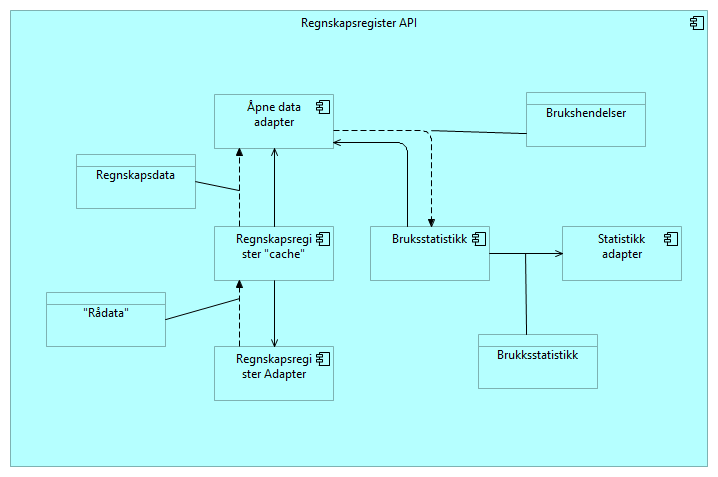
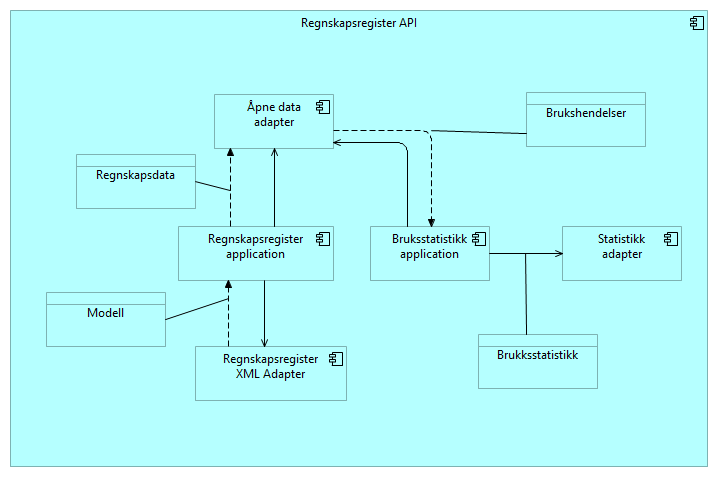
Rename various components

diff --git a/docs/c1dddd90-6b2b-44a8-8895-624dc27e7804/views/f4be0362-e500-4cac-8815-2d00582919d3.html b/docs/c1dddd90-6b2b-44a8-8895-624dc27e7804/views/f4be0362-e500-4cac-8815-2d00582919d3.html
@@ -27,8 +27,8 @@
 		<div class="panel-body root-panel-body">
 			<img class="diagram" src="../images/f4be0362-e500-4cac-8815-2d00582919d3.png" alt="02 Container Diagram" usemap="#f4be0362-e500-4cac-8815-2d00582919d3map">
 			<map name="f4be0362-e500-4cac-8815-2d00582919d3map">
-								<area shape="rect" coords="214,346,334,401" href="../elements/735bf66d-3303-4803-8f0a-3ce517050939.html"  target="element">
-								<area shape="rect" coords="214,226,334,281" href="../elements/69f88598-3791-4729-9d5a-f5d862760722.html"  target="element">
+								<area shape="rect" coords="195,346,347,401" href="../elements/735bf66d-3303-4803-8f0a-3ce517050939.html"  target="element">
+								<area shape="rect" coords="178,226,334,281" href="../elements/69f88598-3791-4729-9d5a-f5d862760722.html"  target="element">
 								<area shape="rect" coords="214,94,334,149" href="../elements/eb91dcab-62e6-490f-9fc4-d87db5ff0b37.html"  target="element">
 								<area shape="rect" coords="370,226,490,281" href="../elements/8da465a7-3b56-4f7c-9659-2fc8c5a6132d.html"  target="element">
 								<area shape="rect" coords="76,154,196,209" href="../elements/40290002-a49f-43cd-888e-2c83abb62d1e.html"  target="element">
@@ -52,7 +52,7 @@
 				<!-- Tab panes -->
 				<div class="tab-content">
 					<div role="tabpanel" class="tab-pane active" id="documentation">
-						<textarea id="docsrc" style="display:none"></textarea>
+						<textarea id="docsrc" style="display:none">Fors&#248;ker meg p&#229; ein hexagonal architecture pattern: https://declara.com/content/va7eLmgJ</textarea>
 						<div id="doctgt" style="white-space:pre-wrap"></div>
 					</div>
 					<div role="tabpanel" class="tab-pane" id="properties">
@@ -77,14 +77,14 @@
 								</thead>
 								<tbody>
 											<tr><td> <a href="../elements/9366fb38-a4b4-491e-8c1a-29da47e25f5c.html" target="element"> Regnskapsregister API </a> </td><td class="i18n-elementtype-ApplicationComponent"></td></tr>
-													<tr><td> <a href="../elements/735bf66d-3303-4803-8f0a-3ce517050939.html" target="element"> Regnskapsregister Adapter </a> </td><td class="i18n-elementtype-ApplicationComponent"></td></tr>
-													<tr><td> <a href="../elements/69f88598-3791-4729-9d5a-f5d862760722.html" target="element"> Regnskapsregister "cache" </a> </td><td class="i18n-elementtype-ApplicationComponent"></td></tr>
+													<tr><td> <a href="../elements/735bf66d-3303-4803-8f0a-3ce517050939.html" target="element"> Regnskapsregister XML Adapter </a> </td><td class="i18n-elementtype-ApplicationComponent"></td></tr>
+													<tr><td> <a href="../elements/69f88598-3791-4729-9d5a-f5d862760722.html" target="element"> Regnskapsregister application </a> </td><td class="i18n-elementtype-ApplicationComponent"></td></tr>
 													<tr><td> <a href="../elements/eb91dcab-62e6-490f-9fc4-d87db5ff0b37.html" target="element"> &#197;pne data adapter </a> </td><td class="i18n-elementtype-ApplicationComponent"></td></tr>
-													<tr><td> <a href="../elements/8da465a7-3b56-4f7c-9659-2fc8c5a6132d.html" target="element"> Bruksstatistikk </a> </td><td class="i18n-elementtype-ApplicationComponent"></td></tr>
+													<tr><td> <a href="../elements/8da465a7-3b56-4f7c-9659-2fc8c5a6132d.html" target="element"> Bruksstatistikk application </a> </td><td class="i18n-elementtype-ApplicationComponent"></td></tr>
 													<tr><td> <a href="../elements/40290002-a49f-43cd-888e-2c83abb62d1e.html" target="element"> Regnskapsdata </a> </td><td class="i18n-elementtype-DataObject"></td></tr>
 													<tr><td> <a href="../elements/131fc57e-9a0c-462e-8ee7-582a7a01c3a9.html" target="element"> Brukksstatistikk </a> </td><td class="i18n-elementtype-DataObject"></td></tr>
 													<tr><td> <a href="../elements/0ab6cbd1-9b4f-46ed-a24a-48b84d185a00.html" target="element"> Statistikk adapter </a> </td><td class="i18n-elementtype-ApplicationComponent"></td></tr>
-													<tr><td> <a href="../elements/dcd6e356-3783-41b9-ab62-d36066bd48fd.html" target="element"> "R&#229;data" </a> </td><td class="i18n-elementtype-DataObject"></td></tr>
+													<tr><td> <a href="../elements/dcd6e356-3783-41b9-ab62-d36066bd48fd.html" target="element"> Modell </a> </td><td class="i18n-elementtype-DataObject"></td></tr>
 													<tr><td> <a href="../elements/4244df1b-13f0-4317-b198-5959c8f59146.html" target="element"> Brukshendelser </a> </td><td class="i18n-elementtype-DataObject"></td></tr>
 											
 
@@ -106,13 +106,13 @@
 																		<td> <a href="../elements/d2ce3b39-f89a-4dce-9323-0a47b61d56ab.html" target="element">  </a> </td>
 																		<td> <a href="../elements/d2ce3b39-f89a-4dce-9323-0a47b61d56ab.html" target="element" class="i18n-elementtype-CompositionRelationship"></a> </td>
 																		<td> <a href="../elements/9366fb38-a4b4-491e-8c1a-29da47e25f5c.html" target="element"> Regnskapsregister API </a> </td>
-																		<td> <a href="../elements/735bf66d-3303-4803-8f0a-3ce517050939.html" target="element"> Regnskapsregister Adapter </a> </td>
+																		<td> <a href="../elements/735bf66d-3303-4803-8f0a-3ce517050939.html" target="element"> Regnskapsregister XML Adapter </a> </td>
 																	</tr>
 																	<tr>
 																		<td> <a href="../elements/d500aac5-bd37-4080-b240-61c075edc208.html" target="element">  </a> </td>
 																		<td> <a href="../elements/d500aac5-bd37-4080-b240-61c075edc208.html" target="element" class="i18n-elementtype-CompositionRelationship"></a> </td>
 																		<td> <a href="../elements/9366fb38-a4b4-491e-8c1a-29da47e25f5c.html" target="element"> Regnskapsregister API </a> </td>
-																		<td> <a href="../elements/69f88598-3791-4729-9d5a-f5d862760722.html" target="element"> Regnskapsregister "cache" </a> </td>
+																		<td> <a href="../elements/69f88598-3791-4729-9d5a-f5d862760722.html" target="element"> Regnskapsregister application </a> </td>
 																	</tr>
 																	<tr>
 																		<td> <a href="../elements/94ca008b-f90a-44c7-bff5-99f58e345e34.html" target="element">  </a> </td>
@@ -124,7 +124,7 @@
 																		<td> <a href="../elements/246e6f1a-7687-4d4c-b259-ae26f9ed11ba.html" target="element">  </a> </td>
 																		<td> <a href="../elements/246e6f1a-7687-4d4c-b259-ae26f9ed11ba.html" target="element" class="i18n-elementtype-CompositionRelationship"></a> </td>
 																		<td> <a href="../elements/9366fb38-a4b4-491e-8c1a-29da47e25f5c.html" target="element"> Regnskapsregister API </a> </td>
-																		<td> <a href="../elements/8da465a7-3b56-4f7c-9659-2fc8c5a6132d.html" target="element"> Bruksstatistikk </a> </td>
+																		<td> <a href="../elements/8da465a7-3b56-4f7c-9659-2fc8c5a6132d.html" target="element"> Bruksstatistikk application </a> </td>
 																	</tr>
 																	<tr>
 																		<td> <a href="../elements/122de9b9-7309-492b-9153-51acc6de85bc.html" target="element">  </a> </td>
@@ -148,7 +148,7 @@
 																		<td> <a href="../elements/f0aa9001-5f4f-4a6d-975e-a270e4cdd51a.html" target="element">  </a> </td>
 																		<td> <a href="../elements/f0aa9001-5f4f-4a6d-975e-a270e4cdd51a.html" target="element" class="i18n-elementtype-AccessRelationship"></a> </td>
 																		<td> <a href="../elements/9366fb38-a4b4-491e-8c1a-29da47e25f5c.html" target="element"> Regnskapsregister API </a> </td>
-																		<td> <a href="../elements/dcd6e356-3783-41b9-ab62-d36066bd48fd.html" target="element"> "R&#229;data" </a> </td>
+																		<td> <a href="../elements/dcd6e356-3783-41b9-ab62-d36066bd48fd.html" target="element"> Modell </a> </td>
 																	</tr>
 																	<tr>
 																		<td> <a href="../elements/361f514b-4f69-4127-ba81-e2fa45cbde3e.html" target="element">  </a> </td>
@@ -160,46 +160,46 @@
 																			<tr>
 																				<td> <a href="../elements/594376fa-8c8f-4c8a-b0b4-4aad53b336a8.html" target="element">  </a> </td>
 																				<td> <a href="../elements/594376fa-8c8f-4c8a-b0b4-4aad53b336a8.html" target="element" class="i18n-elementtype-FlowRelationship"></a> </td>
-																				<td> <a href="../elements/735bf66d-3303-4803-8f0a-3ce517050939.html" target="element"> Regnskapsregister Adapter </a> </td>
-																				<td> <a href="../elements/69f88598-3791-4729-9d5a-f5d862760722.html" target="element"> Regnskapsregister "cache" </a> </td>
+																				<td> <a href="../elements/735bf66d-3303-4803-8f0a-3ce517050939.html" target="element"> Regnskapsregister XML Adapter </a> </td>
+																				<td> <a href="../elements/69f88598-3791-4729-9d5a-f5d862760722.html" target="element"> Regnskapsregister application </a> </td>
 																			</tr>
 
 																			<tr>
 																				<td> <a href="../elements/58858a14-e8c3-42f4-83f6-37135d17270a.html" target="element">  </a> </td>
 																				<td> <a href="../elements/58858a14-e8c3-42f4-83f6-37135d17270a.html" target="element" class="i18n-elementtype-ServingRelationship"></a> </td>
-																				<td> <a href="../elements/69f88598-3791-4729-9d5a-f5d862760722.html" target="element"> Regnskapsregister "cache" </a> </td>
+																				<td> <a href="../elements/69f88598-3791-4729-9d5a-f5d862760722.html" target="element"> Regnskapsregister application </a> </td>
 																				<td> <a href="../elements/eb91dcab-62e6-490f-9fc4-d87db5ff0b37.html" target="element"> &#197;pne data adapter </a> </td>
 																			</tr>
 																			<tr>
 																				<td> <a href="../elements/cdfb491e-c061-4e57-984e-3954a233ae21.html" target="element">  </a> </td>
 																				<td> <a href="../elements/cdfb491e-c061-4e57-984e-3954a233ae21.html" target="element" class="i18n-elementtype-FlowRelationship"></a> </td>
-																				<td> <a href="../elements/69f88598-3791-4729-9d5a-f5d862760722.html" target="element"> Regnskapsregister "cache" </a> </td>
+																				<td> <a href="../elements/69f88598-3791-4729-9d5a-f5d862760722.html" target="element"> Regnskapsregister application </a> </td>
 																				<td> <a href="../elements/eb91dcab-62e6-490f-9fc4-d87db5ff0b37.html" target="element"> &#197;pne data adapter </a> </td>
 																			</tr>
 																			<tr>
 																				<td> <a href="../elements/c7cf6f4c-8430-4fb6-8467-01de0e68cd8e.html" target="element">  </a> </td>
 																				<td> <a href="../elements/c7cf6f4c-8430-4fb6-8467-01de0e68cd8e.html" target="element" class="i18n-elementtype-ServingRelationship"></a> </td>
-																				<td> <a href="../elements/69f88598-3791-4729-9d5a-f5d862760722.html" target="element"> Regnskapsregister "cache" </a> </td>
-																				<td> <a href="../elements/735bf66d-3303-4803-8f0a-3ce517050939.html" target="element"> Regnskapsregister Adapter </a> </td>
+																				<td> <a href="../elements/69f88598-3791-4729-9d5a-f5d862760722.html" target="element"> Regnskapsregister application </a> </td>
+																				<td> <a href="../elements/735bf66d-3303-4803-8f0a-3ce517050939.html" target="element"> Regnskapsregister XML Adapter </a> </td>
 																			</tr>
 
 																			<tr>
 																				<td> <a href="../elements/9feead51-88ef-4f5d-ae4a-2aa34959ebfa.html" target="element">  </a> </td>
 																				<td> <a href="../elements/9feead51-88ef-4f5d-ae4a-2aa34959ebfa.html" target="element" class="i18n-elementtype-FlowRelationship"></a> </td>
 																				<td> <a href="../elements/eb91dcab-62e6-490f-9fc4-d87db5ff0b37.html" target="element"> &#197;pne data adapter </a> </td>
-																				<td> <a href="../elements/8da465a7-3b56-4f7c-9659-2fc8c5a6132d.html" target="element"> Bruksstatistikk </a> </td>
+																				<td> <a href="../elements/8da465a7-3b56-4f7c-9659-2fc8c5a6132d.html" target="element"> Bruksstatistikk application </a> </td>
 																			</tr>
 
 																			<tr>
 																				<td> <a href="../elements/940ed5e4-be28-4aaf-814d-a2283e74da37.html" target="element">  </a> </td>
 																				<td> <a href="../elements/940ed5e4-be28-4aaf-814d-a2283e74da37.html" target="element" class="i18n-elementtype-ServingRelationship"></a> </td>
-																				<td> <a href="../elements/8da465a7-3b56-4f7c-9659-2fc8c5a6132d.html" target="element"> Bruksstatistikk </a> </td>
+																				<td> <a href="../elements/8da465a7-3b56-4f7c-9659-2fc8c5a6132d.html" target="element"> Bruksstatistikk application </a> </td>
 																				<td> <a href="../elements/eb91dcab-62e6-490f-9fc4-d87db5ff0b37.html" target="element"> &#197;pne data adapter </a> </td>
 																			</tr>
 																			<tr>
 																				<td> <a href="../elements/97d54f0a-aa79-4ed1-9098-52c71b5eb29e.html" target="element">  </a> </td>
 																				<td> <a href="../elements/97d54f0a-aa79-4ed1-9098-52c71b5eb29e.html" target="element" class="i18n-elementtype-ServingRelationship"></a> </td>
-																				<td> <a href="../elements/8da465a7-3b56-4f7c-9659-2fc8c5a6132d.html" target="element"> Bruksstatistikk </a> </td>
+																				<td> <a href="../elements/8da465a7-3b56-4f7c-9659-2fc8c5a6132d.html" target="element"> Bruksstatistikk application </a> </td>
 																				<td> <a href="../elements/0ab6cbd1-9b4f-46ed-a24a-48b84d185a00.html" target="element"> Statistikk adapter </a> </td>
 																			</tr>
 
@@ -220,7 +220,7 @@
 																			<tr>
 																				<td> <a href="../elements/c07f3b28-3d71-4079-992b-cd2aa6ca316b.html" target="element">  </a> </td>
 																				<td> <a href="../elements/c07f3b28-3d71-4079-992b-cd2aa6ca316b.html" target="element" class="i18n-elementtype-AssociationRelationship"></a> </td>
-																				<td> <a href="../elements/dcd6e356-3783-41b9-ab62-d36066bd48fd.html" target="element"> "R&#229;data" </a> </td>
+																				<td> <a href="../elements/dcd6e356-3783-41b9-ab62-d36066bd48fd.html" target="element"> Modell </a> </td>
 																				<td> <a href="../elements/594376fa-8c8f-4c8a-b0b4-4aad53b336a8.html" target="element">  </a> </td>
 																			</tr>
 

diff --git a/docs/index.html b/docs/index.html
@@ -61,14 +61,14 @@
 									<ul>
 													<li class="tree-element"><a href="c1dddd90-6b2b-44a8-8895-624dc27e7804/elements/9366fb38-a4b4-491e-8c1a-29da47e25f5c.html" target="element"> Regnskapsregister API </a></li>
 													<li class="tree-element"><a href="c1dddd90-6b2b-44a8-8895-624dc27e7804/elements/2bd81877-e778-436d-9092-5162727c63db.html" target="element"> data.brreg.no/regnskapsregisteret </a></li>
-													<li class="tree-element"><a href="c1dddd90-6b2b-44a8-8895-624dc27e7804/elements/735bf66d-3303-4803-8f0a-3ce517050939.html" target="element"> Regnskapsregister Adapter </a></li>
-													<li class="tree-element"><a href="c1dddd90-6b2b-44a8-8895-624dc27e7804/elements/69f88598-3791-4729-9d5a-f5d862760722.html" target="element"> Regnskapsregister "cache" </a></li>
+													<li class="tree-element"><a href="c1dddd90-6b2b-44a8-8895-624dc27e7804/elements/735bf66d-3303-4803-8f0a-3ce517050939.html" target="element"> Regnskapsregister XML Adapter </a></li>
+													<li class="tree-element"><a href="c1dddd90-6b2b-44a8-8895-624dc27e7804/elements/69f88598-3791-4729-9d5a-f5d862760722.html" target="element"> Regnskapsregister application </a></li>
 													<li class="tree-element"><a href="c1dddd90-6b2b-44a8-8895-624dc27e7804/elements/eb91dcab-62e6-490f-9fc4-d87db5ff0b37.html" target="element"> &#197;pne data adapter </a></li>
-													<li class="tree-element"><a href="c1dddd90-6b2b-44a8-8895-624dc27e7804/elements/8da465a7-3b56-4f7c-9659-2fc8c5a6132d.html" target="element"> Bruksstatistikk </a></li>
+													<li class="tree-element"><a href="c1dddd90-6b2b-44a8-8895-624dc27e7804/elements/8da465a7-3b56-4f7c-9659-2fc8c5a6132d.html" target="element"> Bruksstatistikk application </a></li>
 													<li class="tree-element"><a href="c1dddd90-6b2b-44a8-8895-624dc27e7804/elements/40290002-a49f-43cd-888e-2c83abb62d1e.html" target="element"> Regnskapsdata </a></li>
 													<li class="tree-element"><a href="c1dddd90-6b2b-44a8-8895-624dc27e7804/elements/131fc57e-9a0c-462e-8ee7-582a7a01c3a9.html" target="element"> Brukksstatistikk </a></li>
 													<li class="tree-element"><a href="c1dddd90-6b2b-44a8-8895-624dc27e7804/elements/0ab6cbd1-9b4f-46ed-a24a-48b84d185a00.html" target="element"> Statistikk adapter </a></li>
-													<li class="tree-element"><a href="c1dddd90-6b2b-44a8-8895-624dc27e7804/elements/dcd6e356-3783-41b9-ab62-d36066bd48fd.html" target="element"> "R&#229;data" </a></li>
+													<li class="tree-element"><a href="c1dddd90-6b2b-44a8-8895-624dc27e7804/elements/dcd6e356-3783-41b9-ab62-d36066bd48fd.html" target="element"> Modell </a></li>
 													<li class="tree-element"><a href="c1dddd90-6b2b-44a8-8895-624dc27e7804/elements/4244df1b-13f0-4317-b198-5959c8f59146.html" target="element"> Brukshendelser </a></li>
 
 									</ul>
@@ -103,11 +103,11 @@
 													</a></li>
 													<li class="tree-element"><a href="c1dddd90-6b2b-44a8-8895-624dc27e7804/elements/d2ce3b39-f89a-4dce-9323-0a47b61d56ab.html" target="element">
 															<span class="i18n-elementtype-CompositionRelationship"></span>
-														(Regnskapsregister API - Regnskapsregister Adapter) 
+														(Regnskapsregister API - Regnskapsregister XML Adapter) 
 													</a></li>
 													<li class="tree-element"><a href="c1dddd90-6b2b-44a8-8895-624dc27e7804/elements/d500aac5-bd37-4080-b240-61c075edc208.html" target="element">
 															<span class="i18n-elementtype-CompositionRelationship"></span>
-														(Regnskapsregister API - Regnskapsregister "cache") 
+														(Regnskapsregister API - Regnskapsregister application) 
 													</a></li>
 													<li class="tree-element"><a href="c1dddd90-6b2b-44a8-8895-624dc27e7804/elements/94ca008b-f90a-44c7-bff5-99f58e345e34.html" target="element">
 															<span class="i18n-elementtype-CompositionRelationship"></span>
@@ -115,19 +115,19 @@
 													</a></li>
 													<li class="tree-element"><a href="c1dddd90-6b2b-44a8-8895-624dc27e7804/elements/58858a14-e8c3-42f4-83f6-37135d17270a.html" target="element">
 															<span class="i18n-elementtype-ServingRelationship"></span>
-														(Regnskapsregister "cache" - &#197;pne data adapter) 
+														(Regnskapsregister application - &#197;pne data adapter) 
 													</a></li>
 													<li class="tree-element"><a href="c1dddd90-6b2b-44a8-8895-624dc27e7804/elements/246e6f1a-7687-4d4c-b259-ae26f9ed11ba.html" target="element">
 															<span class="i18n-elementtype-CompositionRelationship"></span>
-														(Regnskapsregister API - Bruksstatistikk) 
+														(Regnskapsregister API - Bruksstatistikk application) 
 													</a></li>
 													<li class="tree-element"><a href="c1dddd90-6b2b-44a8-8895-624dc27e7804/elements/940ed5e4-be28-4aaf-814d-a2283e74da37.html" target="element">
 															<span class="i18n-elementtype-ServingRelationship"></span>
-														(Bruksstatistikk - &#197;pne data adapter) 
+														(Bruksstatistikk application - &#197;pne data adapter) 
 													</a></li>
 													<li class="tree-element"><a href="c1dddd90-6b2b-44a8-8895-624dc27e7804/elements/cdfb491e-c061-4e57-984e-3954a233ae21.html" target="element">
 															<span class="i18n-elementtype-FlowRelationship"></span>
-														(Regnskapsregister "cache" - &#197;pne data adapter) 
+														(Regnskapsregister application - &#197;pne data adapter) 
 													</a></li>
 													<li class="tree-element"><a href="c1dddd90-6b2b-44a8-8895-624dc27e7804/elements/122de9b9-7309-492b-9153-51acc6de85bc.html" target="element">
 															<span class="i18n-elementtype-AccessRelationship"></span>
@@ -139,7 +139,7 @@
 													</a></li>
 													<li class="tree-element"><a href="c1dddd90-6b2b-44a8-8895-624dc27e7804/elements/9feead51-88ef-4f5d-ae4a-2aa34959ebfa.html" target="element">
 															<span class="i18n-elementtype-FlowRelationship"></span>
-														(&#197;pne data adapter - Bruksstatistikk) 
+														(&#197;pne data adapter - Bruksstatistikk application) 
 													</a></li>
 													<li class="tree-element"><a href="c1dddd90-6b2b-44a8-8895-624dc27e7804/elements/0ef4dd90-881d-4d39-b10e-5670f9e76871.html" target="element">
 															<span class="i18n-elementtype-AccessRelationship"></span>
@@ -155,23 +155,23 @@
 													</a></li>
 													<li class="tree-element"><a href="c1dddd90-6b2b-44a8-8895-624dc27e7804/elements/97d54f0a-aa79-4ed1-9098-52c71b5eb29e.html" target="element">
 															<span class="i18n-elementtype-ServingRelationship"></span>
-														(Bruksstatistikk - Statistikk adapter) 
+														(Bruksstatistikk application - Statistikk adapter) 
 													</a></li>
 													<li class="tree-element"><a href="c1dddd90-6b2b-44a8-8895-624dc27e7804/elements/c7cf6f4c-8430-4fb6-8467-01de0e68cd8e.html" target="element">
 															<span class="i18n-elementtype-ServingRelationship"></span>
-														(Regnskapsregister "cache" - Regnskapsregister Adapter) 
+														(Regnskapsregister application - Regnskapsregister XML Adapter) 
 													</a></li>
 													<li class="tree-element"><a href="c1dddd90-6b2b-44a8-8895-624dc27e7804/elements/f0aa9001-5f4f-4a6d-975e-a270e4cdd51a.html" target="element">
 															<span class="i18n-elementtype-AccessRelationship"></span>
-														(Regnskapsregister API - "R&#229;data") 
+														(Regnskapsregister API - Modell) 
 													</a></li>
 													<li class="tree-element"><a href="c1dddd90-6b2b-44a8-8895-624dc27e7804/elements/594376fa-8c8f-4c8a-b0b4-4aad53b336a8.html" target="element">
 															<span class="i18n-elementtype-FlowRelationship"></span>
-														(Regnskapsregister Adapter - Regnskapsregister "cache") 
+														(Regnskapsregister XML Adapter - Regnskapsregister application) 
 													</a></li>
 													<li class="tree-element"><a href="c1dddd90-6b2b-44a8-8895-624dc27e7804/elements/c07f3b28-3d71-4079-992b-cd2aa6ca316b.html" target="element">
 															<span class="i18n-elementtype-AssociationRelationship"></span>
-														("R&#229;data" - ) 
+														(Modell - ) 
 													</a></li>
 													<li class="tree-element"><a href="c1dddd90-6b2b-44a8-8895-624dc27e7804/elements/361f514b-4f69-4127-ba81-e2fa45cbde3e.html" target="element">
 															<span class="i18n-elementtype-AccessRelationship"></span>

diff --git a/docs/c1dddd90-6b2b-44a8-8895-624dc27e7804/elements/model.html b/docs/c1dddd90-6b2b-44a8-8895-624dc27e7804/elements/model.html
@@ -82,14 +82,14 @@
 
 										dataElements.push({id:"9366fb38-a4b4-491e-8c1a-29da47e25f5c", type:"ApplicationComponent", name:decodeURL("Regnskapsregister+API"), description:decodeURL("")});
 										dataElements.push({id:"2bd81877-e778-436d-9092-5162727c63db", type:"ApplicationInterface", name:decodeURL("data.brreg.no%2Fregnskapsregisteret"), description:decodeURL("")});
-										dataElements.push({id:"735bf66d-3303-4803-8f0a-3ce517050939", type:"ApplicationComponent", name:decodeURL("Regnskapsregister+Adapter"), description:decodeURL("")});
-										dataElements.push({id:"69f88598-3791-4729-9d5a-f5d862760722", type:"ApplicationComponent", name:decodeURL("Regnskapsregister+%22cache%22"), description:decodeURL("")});
+										dataElements.push({id:"735bf66d-3303-4803-8f0a-3ce517050939", type:"ApplicationComponent", name:decodeURL("Regnskapsregister+XML+Adapter"), description:decodeURL("")});
+										dataElements.push({id:"69f88598-3791-4729-9d5a-f5d862760722", type:"ApplicationComponent", name:decodeURL("Regnskapsregister+application"), description:decodeURL("")});
 										dataElements.push({id:"eb91dcab-62e6-490f-9fc4-d87db5ff0b37", type:"ApplicationComponent", name:decodeURL("%C3%85pne+data+adapter"), description:decodeURL("")});
-										dataElements.push({id:"8da465a7-3b56-4f7c-9659-2fc8c5a6132d", type:"ApplicationComponent", name:decodeURL("Bruksstatistikk"), description:decodeURL("")});
+										dataElements.push({id:"8da465a7-3b56-4f7c-9659-2fc8c5a6132d", type:"ApplicationComponent", name:decodeURL("Bruksstatistikk+application"), description:decodeURL("")});
 										dataElements.push({id:"40290002-a49f-43cd-888e-2c83abb62d1e", type:"DataObject", name:decodeURL("Regnskapsdata"), description:decodeURL("")});
 										dataElements.push({id:"131fc57e-9a0c-462e-8ee7-582a7a01c3a9", type:"DataObject", name:decodeURL("Brukksstatistikk"), description:decodeURL("")});
 										dataElements.push({id:"0ab6cbd1-9b4f-46ed-a24a-48b84d185a00", type:"ApplicationComponent", name:decodeURL("Statistikk+adapter"), description:decodeURL("")});
-										dataElements.push({id:"dcd6e356-3783-41b9-ab62-d36066bd48fd", type:"DataObject", name:decodeURL("%22R%C3%A5data%22"), description:decodeURL("")});
+										dataElements.push({id:"dcd6e356-3783-41b9-ab62-d36066bd48fd", type:"DataObject", name:decodeURL("Modell"), description:decodeURL("")});
 										dataElements.push({id:"4244df1b-13f0-4317-b198-5959c8f59146", type:"DataObject", name:decodeURL("Brukshendelser"), description:decodeURL("")});
 
 

diff --git a/docs/c1dddd90-6b2b-44a8-8895-624dc27e7804/elements/69f88598-3791-4729-9d5a-f5d862760722.html b/docs/c1dddd90-6b2b-44a8-8895-624dc27e7804/elements/69f88598-3791-4729-9d5a-f5d862760722.html
@@ -2,7 +2,7 @@
 <html class="frame" lang="en">
 <head>
 	<meta http-equiv="Content-Type" content="text/html;charset=utf-8">
-	<title>Regnskapsregister "cache"</title>
+	<title>Regnskapsregister application</title>
 
 	<!-- JQUERY (use 1.x branch to be compatible with IE 6/7/8) -->
 	<script type="text/javascript" src="../../lib/jquery/js/jquery-1.11.2.min.js"></script>
@@ -20,7 +20,7 @@
 <body>
 	<div class="panel panel-default root-panel">
 		<div class="panel-heading root-panel-heading">
-			<b>Regnskapsregister "cache"</b>
+			<b>Regnskapsregister application</b>
 			(<span class="i18n-elementtype-ApplicationComponent"></span>)
 			<a class="glyphicon glyphicon-info-sign" id="hint-ApplicationComponent" target="hint"></a>
 		</div>

diff --git a/docs/c1dddd90-6b2b-44a8-8895-624dc27e7804/elements/735bf66d-3303-4803-8f0a-3ce517050939.html b/docs/c1dddd90-6b2b-44a8-8895-624dc27e7804/elements/735bf66d-3303-4803-8f0a-3ce517050939.html
@@ -2,7 +2,7 @@
 <html class="frame" lang="en">
 <head>
 	<meta http-equiv="Content-Type" content="text/html;charset=utf-8">
-	<title>Regnskapsregister Adapter</title>
+	<title>Regnskapsregister XML Adapter</title>
 
 	<!-- JQUERY (use 1.x branch to be compatible with IE 6/7/8) -->
 	<script type="text/javascript" src="../../lib/jquery/js/jquery-1.11.2.min.js"></script>
@@ -20,7 +20,7 @@
 <body>
 	<div class="panel panel-default root-panel">
 		<div class="panel-heading root-panel-heading">
-			<b>Regnskapsregister Adapter</b>
+			<b>Regnskapsregister XML Adapter</b>
 			(<span class="i18n-elementtype-ApplicationComponent"></span>)
 			<a class="glyphicon glyphicon-info-sign" id="hint-ApplicationComponent" target="hint"></a>
 		</div>

diff --git a/docs/c1dddd90-6b2b-44a8-8895-624dc27e7804/elements/8da465a7-3b56-4f7c-9659-2fc8c5a6132d.html b/docs/c1dddd90-6b2b-44a8-8895-624dc27e7804/elements/8da465a7-3b56-4f7c-9659-2fc8c5a6132d.html
@@ -2,7 +2,7 @@
 <html class="frame" lang="en">
 <head>
 	<meta http-equiv="Content-Type" content="text/html;charset=utf-8">
-	<title>Bruksstatistikk</title>
+	<title>Bruksstatistikk application</title>
 
 	<!-- JQUERY (use 1.x branch to be compatible with IE 6/7/8) -->
 	<script type="text/javascript" src="../../lib/jquery/js/jquery-1.11.2.min.js"></script>
@@ -20,7 +20,7 @@
 <body>
 	<div class="panel panel-default root-panel">
 		<div class="panel-heading root-panel-heading">
-			<b>Bruksstatistikk</b>
+			<b>Bruksstatistikk application</b>
 			(<span class="i18n-elementtype-ApplicationComponent"></span>)
 			<a class="glyphicon glyphicon-info-sign" id="hint-ApplicationComponent" target="hint"></a>
 		</div>

diff --git a/docs/c1dddd90-6b2b-44a8-8895-624dc27e7804/elements/dcd6e356-3783-41b9-ab62-d36066bd48fd.html b/docs/c1dddd90-6b2b-44a8-8895-624dc27e7804/elements/dcd6e356-3783-41b9-ab62-d36066bd48fd.html
@@ -2,7 +2,7 @@
 <html class="frame" lang="en">
 <head>
 	<meta http-equiv="Content-Type" content="text/html;charset=utf-8">
-	<title>"Rådata"</title>
+	<title>Modell</title>
 
 	<!-- JQUERY (use 1.x branch to be compatible with IE 6/7/8) -->
 	<script type="text/javascript" src="../../lib/jquery/js/jquery-1.11.2.min.js"></script>
@@ -20,7 +20,7 @@
 <body>
 	<div class="panel panel-default root-panel">
 		<div class="panel-heading root-panel-heading">
-			<b>"R&#229;data"</b>
+			<b>Modell</b>
 			(<span class="i18n-elementtype-DataObject"></span>)
 			<a class="glyphicon glyphicon-info-sign" id="hint-DataObject" target="hint"></a>
 		</div>

diff --git a/docs/c1dddd90-6b2b-44a8-8895-624dc27e7804/elements/594376fa-8c8f-4c8a-b0b4-4aad53b336a8.html b/docs/c1dddd90-6b2b-44a8-8895-624dc27e7804/elements/594376fa-8c8f-4c8a-b0b4-4aad53b336a8.html
@@ -38,11 +38,11 @@
 							<br>
 							<b class="i18n-relation-source"></b>
 								<a href="../elements/735bf66d-3303-4803-8f0a-3ce517050939.html" target="element">
-									Regnskapsregister Adapter
+									Regnskapsregister XML Adapter
 								</a> <br>
 							<b class="i18n-relation-target"></b>
 								<a href="../elements/69f88598-3791-4729-9d5a-f5d862760722.html" target="element">
-									Regnskapsregister "cache"
+									Regnskapsregister application
 								</a> <br>
 							<br>
 						<textarea id="docsrc" style="display:none"></textarea>

diff --git a/docs/c1dddd90-6b2b-44a8-8895-624dc27e7804/elements/c7cf6f4c-8430-4fb6-8467-01de0e68cd8e.html b/docs/c1dddd90-6b2b-44a8-8895-624dc27e7804/elements/c7cf6f4c-8430-4fb6-8467-01de0e68cd8e.html
@@ -38,11 +38,11 @@
 							<br>
 							<b class="i18n-relation-source"></b>
 								<a href="../elements/69f88598-3791-4729-9d5a-f5d862760722.html" target="element">
-									Regnskapsregister "cache"
+									Regnskapsregister application
 								</a> <br>
 							<b class="i18n-relation-target"></b>
 								<a href="../elements/735bf66d-3303-4803-8f0a-3ce517050939.html" target="element">
-									Regnskapsregister Adapter
+									Regnskapsregister XML Adapter
 								</a> <br>
 							<br>
 						<textarea id="docsrc" style="display:none"></textarea>

diff --git a/docs/c1dddd90-6b2b-44a8-8895-624dc27e7804/elements/58858a14-e8c3-42f4-83f6-37135d17270a.html b/docs/c1dddd90-6b2b-44a8-8895-624dc27e7804/elements/58858a14-e8c3-42f4-83f6-37135d17270a.html
@@ -38,7 +38,7 @@
 							<br>
 							<b class="i18n-relation-source"></b>
 								<a href="../elements/69f88598-3791-4729-9d5a-f5d862760722.html" target="element">
-									Regnskapsregister "cache"
+									Regnskapsregister application
 								</a> <br>
 							<b class="i18n-relation-target"></b>
 								<a href="../elements/eb91dcab-62e6-490f-9fc4-d87db5ff0b37.html" target="element">

diff --git a/docs/c1dddd90-6b2b-44a8-8895-624dc27e7804/elements/cdfb491e-c061-4e57-984e-3954a233ae21.html b/docs/c1dddd90-6b2b-44a8-8895-624dc27e7804/elements/cdfb491e-c061-4e57-984e-3954a233ae21.html
@@ -38,7 +38,7 @@
 							<br>
 							<b class="i18n-relation-source"></b>
 								<a href="../elements/69f88598-3791-4729-9d5a-f5d862760722.html" target="element">
-									Regnskapsregister "cache"
+									Regnskapsregister application
 								</a> <br>
 							<b class="i18n-relation-target"></b>
 								<a href="../elements/eb91dcab-62e6-490f-9fc4-d87db5ff0b37.html" target="element">

diff --git a/docs/c1dddd90-6b2b-44a8-8895-624dc27e7804/elements/940ed5e4-be28-4aaf-814d-a2283e74da37.html b/docs/c1dddd90-6b2b-44a8-8895-624dc27e7804/elements/940ed5e4-be28-4aaf-814d-a2283e74da37.html
@@ -38,7 +38,7 @@
 							<br>
 							<b class="i18n-relation-source"></b>
 								<a href="../elements/8da465a7-3b56-4f7c-9659-2fc8c5a6132d.html" target="element">
-									Bruksstatistikk
+									Bruksstatistikk application
 								</a> <br>
 							<b class="i18n-relation-target"></b>
 								<a href="../elements/eb91dcab-62e6-490f-9fc4-d87db5ff0b37.html" target="element">
